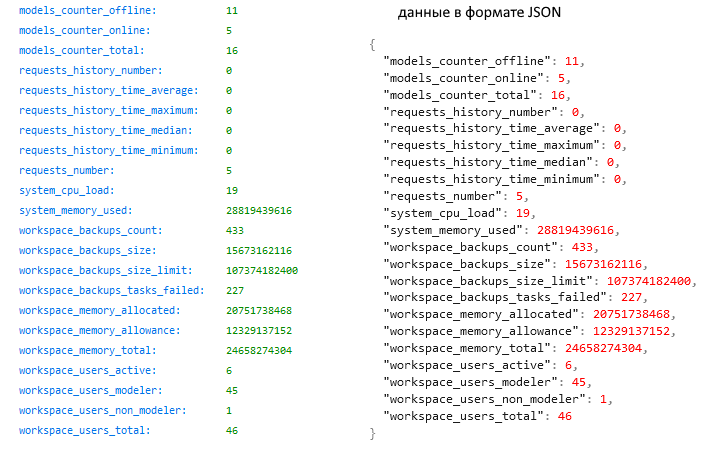
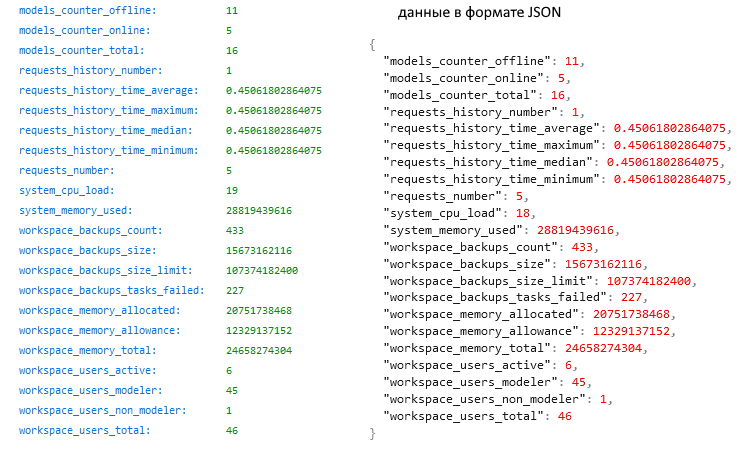
[*] Additional details #33010

diff --git a/README.md b/README.md
@@ -22,17 +22,17 @@
   - [**workspace_backups_size**](#metrics_workspace_backups_size) - размер созданных бэкапов
   - [**workspace_backups_size_limit**](#metrics_workspace_backups_size_limit) - лимит пространства для бэкапов
   - [**workspace_backups_tasks_failed**](#metrics_workspace_backups_tasks_failed) - количество провальных задач бекапирования в системе
-- запросы (requests)
-  - **requests_number** - количество запросов (мгновенное значение (RPS))
-  - **requests_history_number** - общее количество запросов (по истории)
-  - **requests_history_time_minimum** - минимальное время выполнения запросов
-  - **requests_history_time_maximum** - максимальное время выполнения запросов
-  - **requests_history_time_average** - среднее время выполнения запросов
-  - **requests_history_time_median** - медиана времени выполнения запросов
 - модели (models)
-  - **models_counter_total** - общее количество моделей в системе
-  - **models_counter_online** - количество доступных моделей (online)
-  - **models_counter_offline** - количество недоступных моделей (offline)
+  - [**models_counter_total**](#metrics_models_counter_total) - общее количество моделей в системе
+  - [**models_counter_online**](#metrics_models_counter_online) - количество доступных моделей (online)
+  - [**models_counter_offline**](#metrics_models_counter_offline) - количество недоступных моделей (offline)
+- запросы (requests)
+  - [**requests_number**](#metrics_requests_number) - количество запросов (мгновенное значение (RPS))
+  - [**requests_history_number**](#metrics_requests_history_number) - общее количество запросов (по истории)
+  - [**requests_history_time_minimum**](#metrics_requests_history_time_minimum) - минимальное время выполнения запросов
+  - [**requests_history_time_maximum**](#metrics_requests_history_time_maximum) - максимальное время выполнения запросов
+  - [**requests_history_time_average**](#metrics_requests_history_time_average) - среднее время выполнения запросов
+  - [**requests_history_time_median**](#metrics_requests_history_time_median) - медиана времени выполнения запросов
 
 ## Метрики в формате JSON <a name="metrics-json"></a>
 
@@ -124,6 +124,56 @@
 Данная метрика предоставляет информацию об общем количестве провальных задач создания бэкапов моделей в системе.
 <br>Метрика представлена целым числом.
 
+### Метрики моделей
+
+#### models_counter_total <a name="metrics_models_counter_total"></a>
+
+Данная метрика предоставляет информацию об общем количестве моделей, созданных в воркспейс.
+<br>Метрика представлена целым числом.
+
+#### models_counter_online <a name="metrics_models_counter_online"></a>
+
+Данная метрика предоставляет информацию о количестве моделей в статусе online (доступны для работы).
+<br>Метрика представлена целым числом.
+
+#### models_counter_offline <a name="metrics_models_counter_offline"></a>
+
+Данная метрика предоставляет информацию о количестве моделей в статусе offline (недоступны для работы).
+<br>Метрика представлена целым числом.
+
+### Метрики запросов
+
+#### requests_number <a name="metrics_requests_number"></a>
+
+Данная метрика предоставляет информацию о количестве клиентских запросов, зарегистрированных в данный момент времени в воркспейс.
+<br>Метрика представлена целым числом.
+
+#### requests_history_number <a name="metrics_requests_history_number"></a>
+
+Данная метрика предоставляет информацию о количестве клиентских запросов, исполняемых в воркспейс в данный момент времени.
+<br>Метрика представлена целым числом.
+
+#### requests_history_time_minimum <a name="metrics_requests_history_time_minimum"></a>
+
+Данная метрика предоставляет информацию о **минимальном** времени выполнения клиентских запросов (исполняемых в воркспейс в данный момент времени).
+<br>Метрика представлена числом с плавающей точкой.
+
+#### requests_history_time_maximum <a name="metrics_requests_history_time_maximum"></a>
+
+Данная метрика предоставляет информацию о **максимальном** времени выполнения клиентских запросов (исполняемых в воркспейс в данный момент времени).
+<br>Метрика представлена числом с плавающей точкой.
+
+#### requests_history_time_average <a name="metrics_requests_history_time_average"></a>
+
+Данная метрика предоставляет информацию о **среднем** времени выполнения клиентских запросов (исполняемых в воркспейс в данный момент времени).
+<br>Метрика представлена числом с плавающей точкой.
+<br>Среднее время является адекватной мерой только в случае нормального распределения выборки, поскольку оно слишком чувствительно к «выбросам» – слишком большим или слишком малым значениям, которые сильно выбиваются из общей тенденции.
+
+#### requests_history_time_median <a name="metrics_requests_history_time_median"></a>
+
+Данная метрика предоставляет информацию о **медиане** времени выполнения клиентских запросов (исполняемых в воркспейс в данный момент времени).
+<br>Метрика представлена числом с плавающей точкой.
+<br>Медиана является серединой всей выборки времён ответов (см. <a href="https://habr.com/ru/companies/yoomoney/articles/433436/">Введение в исследование производительности</a>). В идеальной ситуации медиана и среднее равны. Если среднее сильно отличается от медианы, значит некоторые запросы выполнялись слишком медленно или слишком быстро, т.е. отклонялись от среднего значения. 
 
 ## Глоссарий
 
@@ -132,6 +182,8 @@
 **Ворскспейс (workspace)** – приложение (ПО «Оптимакрос»), на котором пользователи размещают свои модели и проводят работу с данными.
 
 **Модель** – совокупность структур данных, связанных между собой, в виде мастер-данных, форм ввода, отчетов и визуализации, ограниченных конкретной областью (физической и логической (предметной)).
+
+**Статус модели** – модель может быть в статусе online (доступна для работы) или offline (недоступна для работы).
 
 **Моделер** - продвинутый пользователь ПО «Оптимакрос», который имеет доступ к инструментам и механизмам бизнес-моделировани ПО «Оптимакрос».
 
